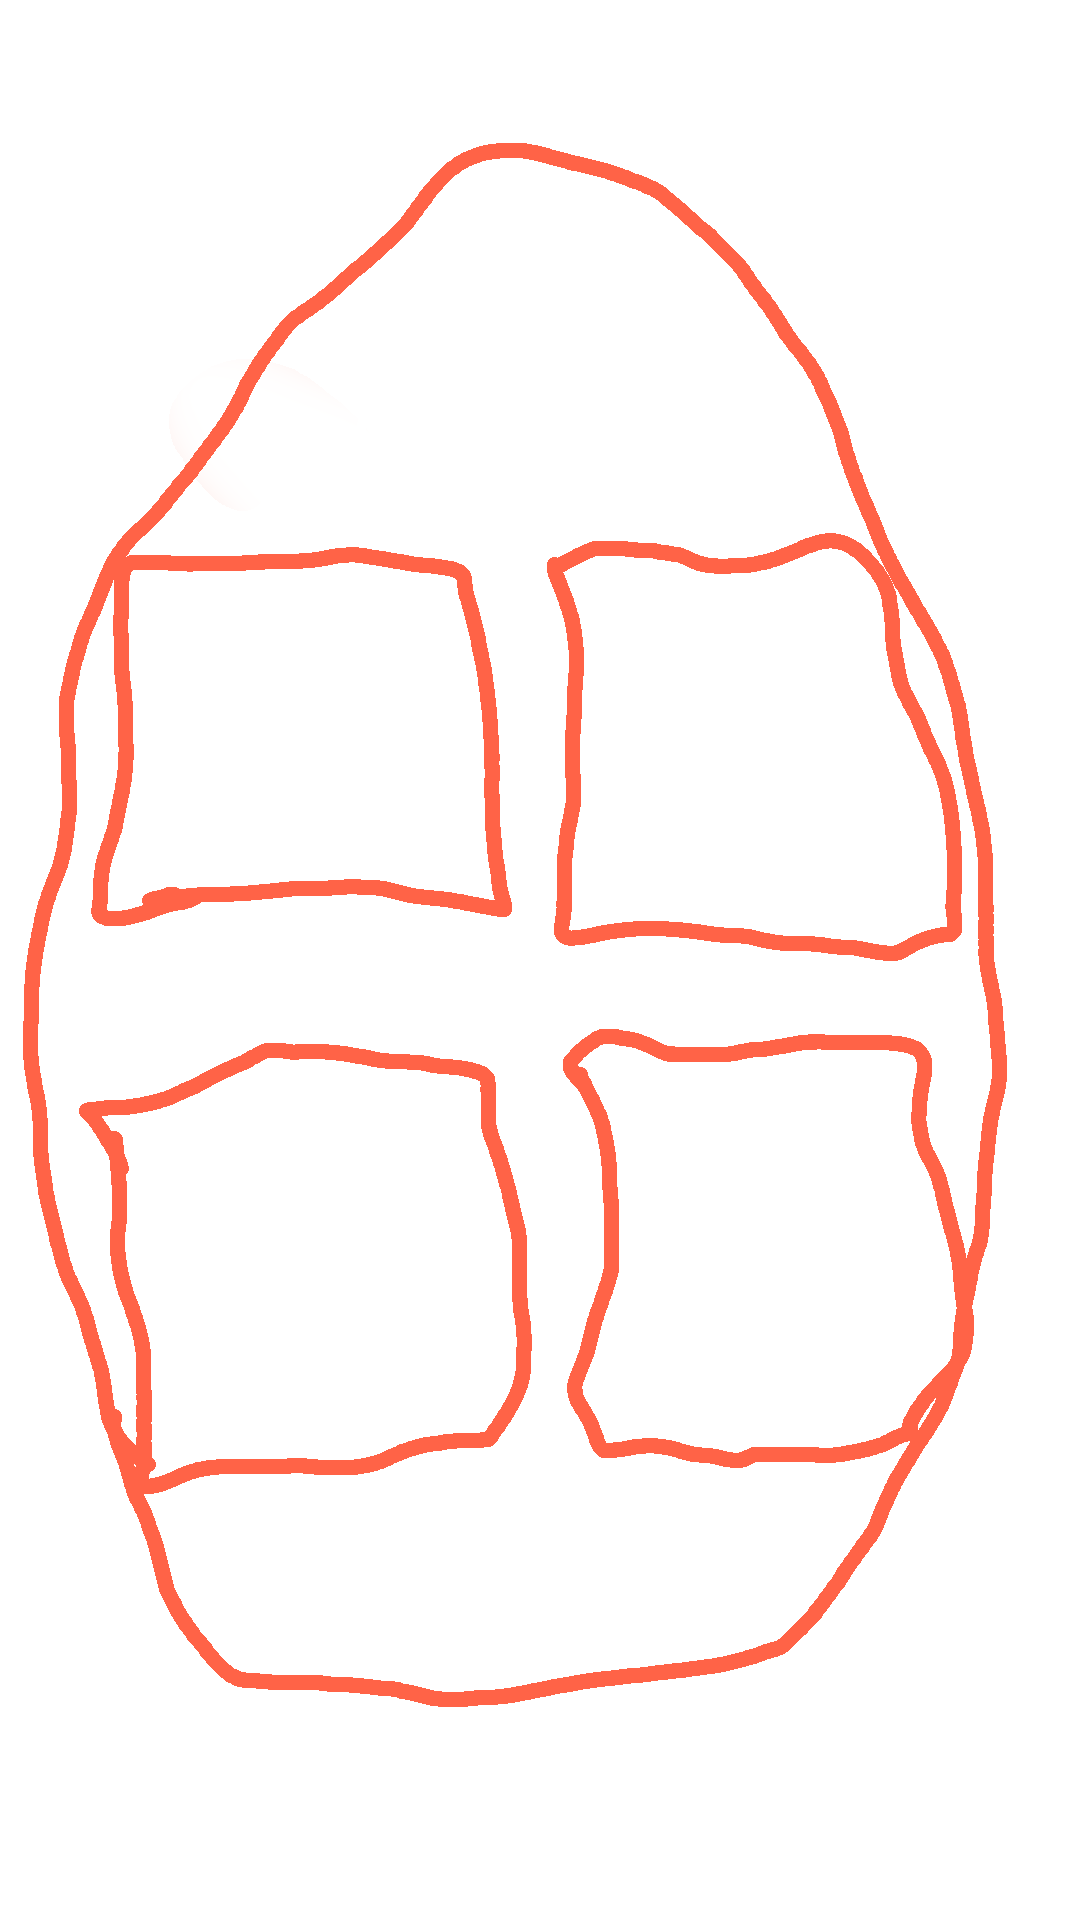
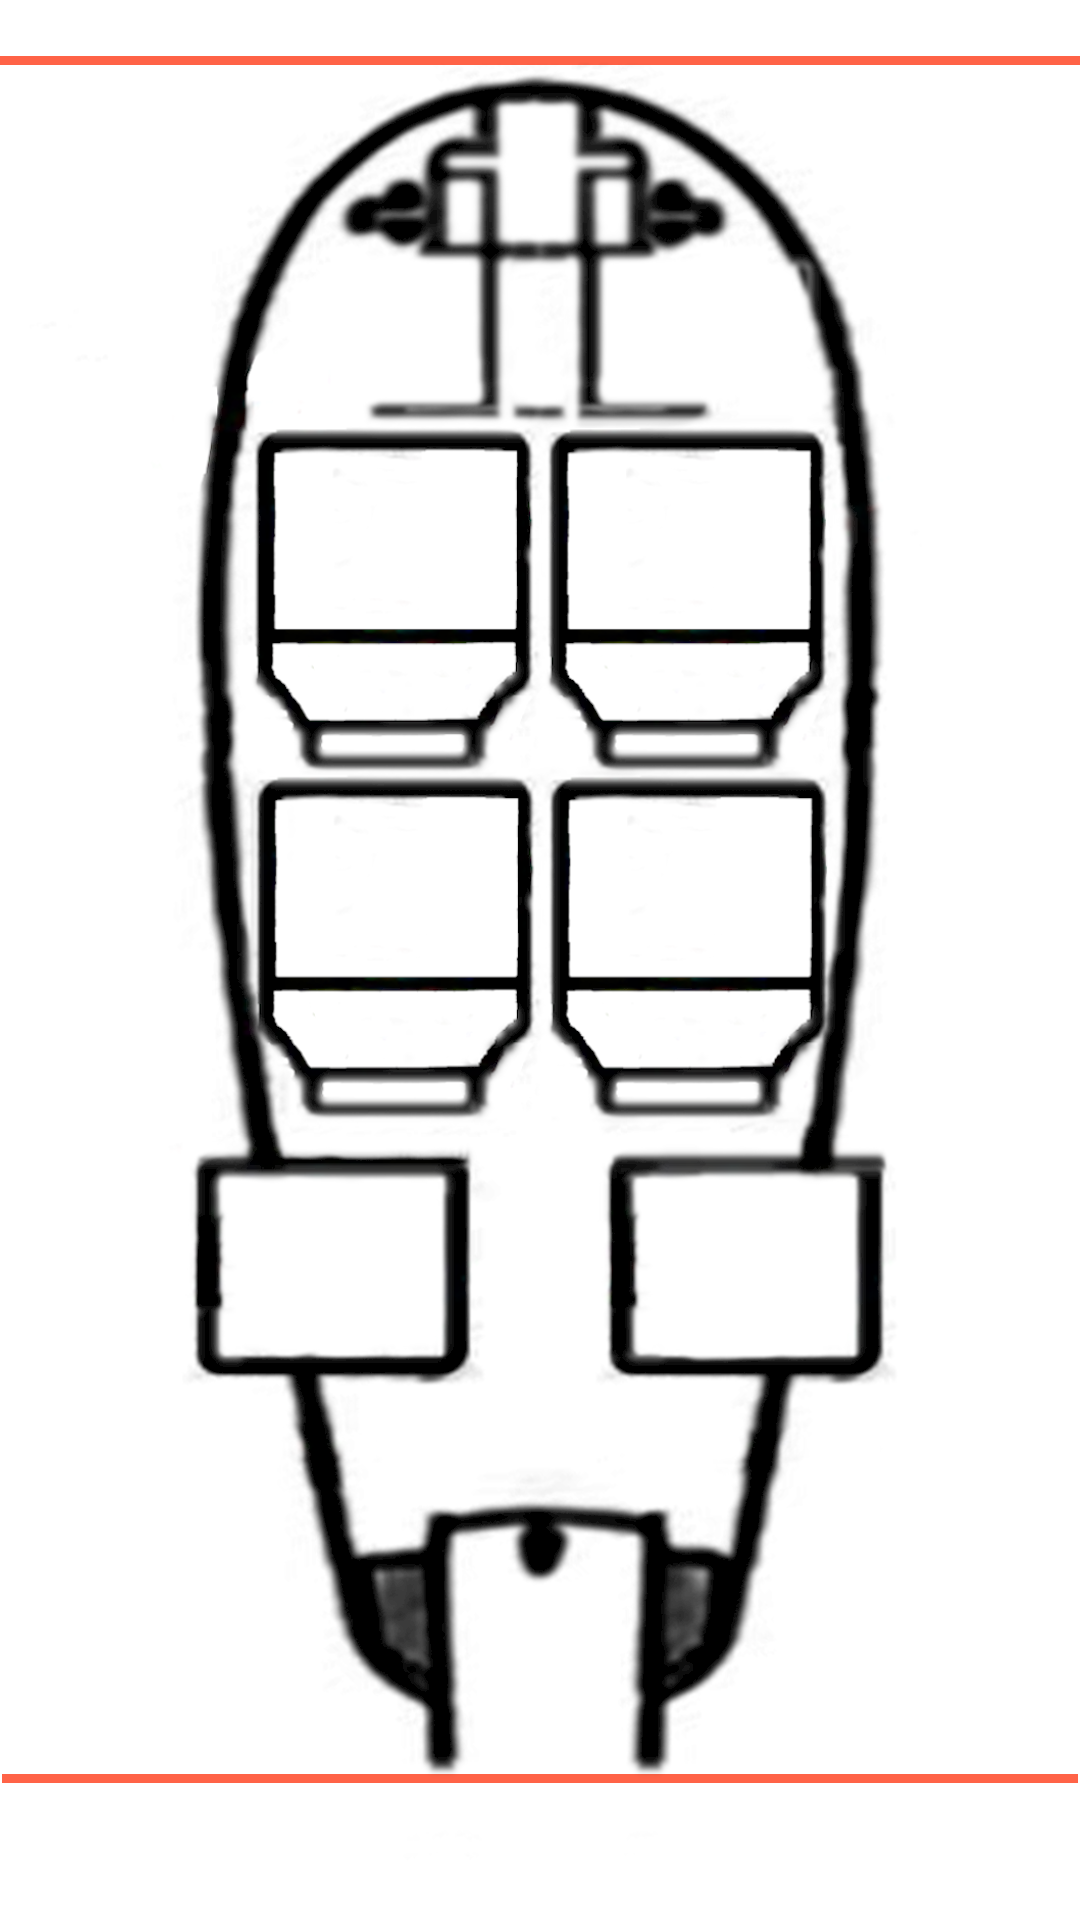
Finished prototypal layout of WaB Screen.

Changed region(s): [[0.0, 0.0312, 1.0, 0.9375]]

diff --git a/app/src/features/wab/module/passenger-list.module.tsx b/app/src/features/wab/module/passenger-list.module.tsx
@@ -1,141 +1,47 @@
 import React from 'react';
 import { View, ImageBackground, Dimensions, Text } from 'react-native';
-import { TextInput, Button } from 'react-native-paper';
-import { souls } from '../../../infrastructure/contexts/souls';
-import { InputData } from '../../../components/textinput/text-input-wab.component';
 import { styles } from '../styles/passenger-list.styles';
-import { Formik, Form, Field, ErrorMessage } from 'formik';
 
 import { useBottomTabBarHeight } from '@react-navigation/bottom-tabs';
-import { ButtonInputData } from '../../../components/textinput/button-input-data.component';
+import { ButtonInputData } from '../../../components/textinput/soulDataInput.component';
 
 export const PassengerListModule = () => {
     const tabBarHeight = useBottomTabBarHeight();
 
     return (
         <ImageBackground
-            source={require('../../../../assets/heli-proto-background-3.png')}
+            source={require('../../../../assets/heli-proto-background.png')}
             style={{
                 ...styles.backGroundStyle,
                 height: Dimensions.get('window').height - tabBarHeight * 2,
             }}
         >
             <View style={styles.moduleContainer}>
-                <ButtonInputData header="Pilot" massType="kgs" />
+                <View style={styles.frontRowStyles}>
+                    <View style={styles.soulContainerStyles}>
+                        <ButtonInputData header="Pax 1" massType="lt" />
+                    </View>
+                    <View style={styles.soulContainerStyles}>
+                        <ButtonInputData header="Pilot" massType="kgs" />
+                    </View>
+                </View>
+                <View style={styles.backRowStyles}>
+                    <View style={styles.soulContainerStyles}>
+                        <ButtonInputData header="Pax 1" massType="lt" />
+                    </View>
+                    <View style={styles.soulContainerStyles}>
+                        <ButtonInputData header="Pilot" massType="kgs" />
+                    </View>
+                </View>
+                <View style={styles.tanksRowStyles}>
+                    <View style={styles.tankContainerStyles}>
+                        <ButtonInputData header="Pax 1" massType="lt" />
+                    </View>
+                    <View style={styles.tankContainerStyles}>
+                        <ButtonInputData header="Pilot" massType="kgs" />
+                    </View>
+                </View>
             </View>
         </ImageBackground>
     );
 };
-
-// <ImageBackground
-//     source={require('../../../../assets/heli-proto-background-3.png')}
-//     style={{
-//         ...styles.backGroundStyle,
-//         height: Dimensions.get('window').height - tabBarHeight * 2,
-//     }}
-// >
-//     <Formik
-//         initialValues={souls}
-//         onSubmit={(values) => console.log(values)}
-//     >
-//         {({ handleChange, handleBlur, handleSubmit, values }) => (
-//             <View style={styles.moduleContainer}>
-//                 <View style={styles.soulContainerStyles}>
-//                     <TextInput
-//                         mode={'outlined'}
-//                         onChangeText={handleChange('pilot.name')}
-//                         onBlur={handleBlur('pilot.name')}
-//                         value={values.pilot.name}
-//                         label={`Pilot's Name`}
-//                         style={styles.nameInputStyles}
-//                     />
-//                     <TextInput
-//                         mode={'outlined'}
-//                         onChangeText={handleChange('pilot.mass')}
-//                         onBlur={handleBlur('pilot.mass')}
-//                         value={values.pilot.mass}
-//                         label={'Mass'}
-//                         style={styles.massInputStyles}
-//                     />
-//                 </View>
-//                 <View style={styles.soulContainerStyles}>
-//                     <TextInput
-//                         mode={'outlined'}
-//                         onChangeText={handleChange('p1.name')}
-//                         onBlur={handleBlur('p1.name')}
-//                         value={values.p1.name}
-//                         label={`P1's Name`}
-//                         style={styles.nameInputStyles}
-//                     />
-//                     <TextInput
-//                         mode={'outlined'}
-//                         onChangeText={handleChange('p1.mass')}
-//                         onBlur={handleBlur('p1.mass')}
-//                         value={values.p1.mass}
-//                         label={'Mass'}
-//                         style={styles.massInputStyles}
-//                     />
-//                 </View>
-//                 <View style={styles.soulContainerStyles}>
-//                     <TextInput
-//                         mode={'outlined'}
-//                         onChangeText={handleChange('p2.name')}
-//                         onBlur={handleBlur('p2.name')}
-//                         value={values.p2.name}
-//                         label={`P2's Name`}
-//                         style={styles.nameInputStyles}
-//                     />
-//                     <TextInput
-//                         mode={'outlined'}
-//                         onChangeText={handleChange('p2.mass')}
-//                         onBlur={handleBlur('p2.mass')}
-//                         value={values.p2.mass}
-//                         label={'Mass'}
-//                         style={styles.massInputStyles}
-//                     />
-//                 </View>
-//                 <View style={styles.soulContainerStyles}>
-//                     <TextInput
-//                         mode={'outlined'}
-//                         onChangeText={handleChange('p3.name')}
-//                         onBlur={handleBlur('p3.name')}
-//                         value={values.p3.name}
-//                         label={`P3's Name`}
-//                         style={styles.nameInputStyles}
-//                     />
-//                     <TextInput
-//                         mode={'outlined'}
-//                         onChangeText={handleChange('p3.mass')}
-//                         onBlur={handleBlur('p3.mass')}
-//                         value={values.p3.mass}
-//                         label={'Mass'}
-//                         style={styles.massInputStyles}
-//                     />
-//                 </View>
-//                 <View style={styles.soulContainerStyles}>
-//                     <TextInput
-//                         mode={'outlined'}
-//                         onChangeText={handleChange('fuel.main')}
-//                         onBlur={handleBlur('fuel.main')}
-//                         value={values.fuel.main}
-//                         label={`Main Tank`}
-//                         style={styles.fuelInputStyles}
-//                     />
-//                     <TextInput
-//                         mode={'outlined'}
-//                         onChangeText={handleChange('fuel.aux')}
-//                         onBlur={handleBlur('fuel.aux')}
-//                         value={values.fuel.aux}
-//                         label={'Aux. Tank'}
-//                         style={styles.fuelInputStyles}
-//                     />
-//                 </View>
-//                 <Button
-//                     onPress={handleSubmit}
-//                     children="Submit"
-//                     mode="outlined"
-//                 />
-//             </View>
-//         )}
-//     </Formik>
-// </ImageBackground>

diff --git a/app/src/features/wab/styles/passenger-list.styles.tsx b/app/src/features/wab/styles/passenger-list.styles.tsx
@@ -1,9 +1,9 @@
 import { StyleSheet, Dimensions } from 'react-native';
-import { useBottomTabBarHeight } from '@react-navigation/bottom-tabs';
 
 export const styles = StyleSheet.create({
     moduleContainer: {
         flex: 1,
+        justifyContent: 'center',
     },
     backGroundStyle: {
         position: 'absolute',
@@ -12,25 +12,36 @@ export const styles = StyleSheet.create({
         width: Dimensions.get('window').width,
         height: Dimensions.get('window').height,
     },
-    screenMainContainer: {
+    frontRowStyles: {
         flex: 1,
+        flexDirection: 'row',
+        paddingLeft: 93,
+        paddingTop: 30,
+        marginBottom: 110,
+        paddingBottom: 20,
     },
-    nameInputStyles: {
-        width: 270,
-        marginHorizontal: 5,
-        paddingTop: 5,
+    backRowStyles: {
+        flex: 1,
+        flexDirection: 'row',
+        paddingLeft: 93,
+        marginBottom: 110,
+        paddingBottom: 25,
     },
-    massInputStyles: {
-        width: 100,
-        marginHorizontal: 5,
-        paddingTop: 5,
+    tanksRowStyles: {
+        flex: 1,
+        flexDirection: 'row',
+        paddingLeft: 73,
+        marginBottom: 120,
+        paddingBottom: 25,
     },
     soulContainerStyles: {
         flexDirection: 'row',
+        flex: 1,
+        flexGrow: 0.36,
     },
-    fuelInputStyles: {
-        width: 185,
-        marginHorizontal: 5,
-        paddingTop: 5,
+    tankContainerStyles: {
+        flexDirection: 'row',
+        flex: 1,
+        flexGrow: 0.47,
     },
 });

diff --git a/app/src/components/textinput/soulDataInput.component.tsx b/app/src/components/textinput/soulDataInput.component.tsx
@@ -1,7 +1,7 @@
 import React, { useState } from 'react';
 import { View, TouchableOpacity } from 'react-native';
 import { Text, Modal, Portal, Provider } from 'react-native-paper';
-import { styles } from './text-input-wab.styles';
+import { styles } from './soulDataInput.styles';
 
 type ButtonInputDataProps = {
     header: string;
@@ -32,9 +32,9 @@ export const ButtonInputData = ({ header, massType }: ButtonInputDataProps) => {
             </Portal>
             <TouchableOpacity onPress={showModal}>
                 <View style={styles.viewDataContainer}>
-                    <Text style={styles.viewHeaderTextStyles}>{header}</Text>
-                    <Text style={styles.viewTextStyles}>{name}</Text>
-                    <Text style={styles.viewTextStyles}>
+                    <Text style={styles.headerTextStyles}>{header}</Text>
+                    <Text style={styles.textNameStyles}>{name}</Text>
+                    <Text style={styles.textMassStyles}>
                         {mass} {massType}
                     </Text>
                 </View>

diff --git a/app/src/components/textinput/soulDataInput.styles.tsx b/app/src/components/textinput/soulDataInput.styles.tsx
@@ -1,0 +1,33 @@
+import { StyleSheet } from 'react-native';
+import { colors } from '../../infrastructure/theme/colors';
+
+export const styles = StyleSheet.create({
+    viewDataContainer: {
+        width: 100,
+        height: 75,
+        borderWidth: 4,
+        borderRadius: 10,
+        borderColor: colors.secondary,
+    },
+    headerTextStyles: {
+        fontSize: 19,
+        alignSelf: 'center',
+        color: colors.secondary,
+        fontWeight: 'bold',
+        flex: 1,
+    },
+    textNameStyles: {
+        fontSize: 17,
+        alignSelf: 'center',
+        color: colors.primary,
+        fontWeight: 'bold',
+        flex: 1,
+    },
+    textMassStyles: {
+        fontSize: 17,
+        alignSelf: 'center',
+        color: colors.primary,
+        fontWeight: 'bold',
+        flex: 1,
+    },
+});
